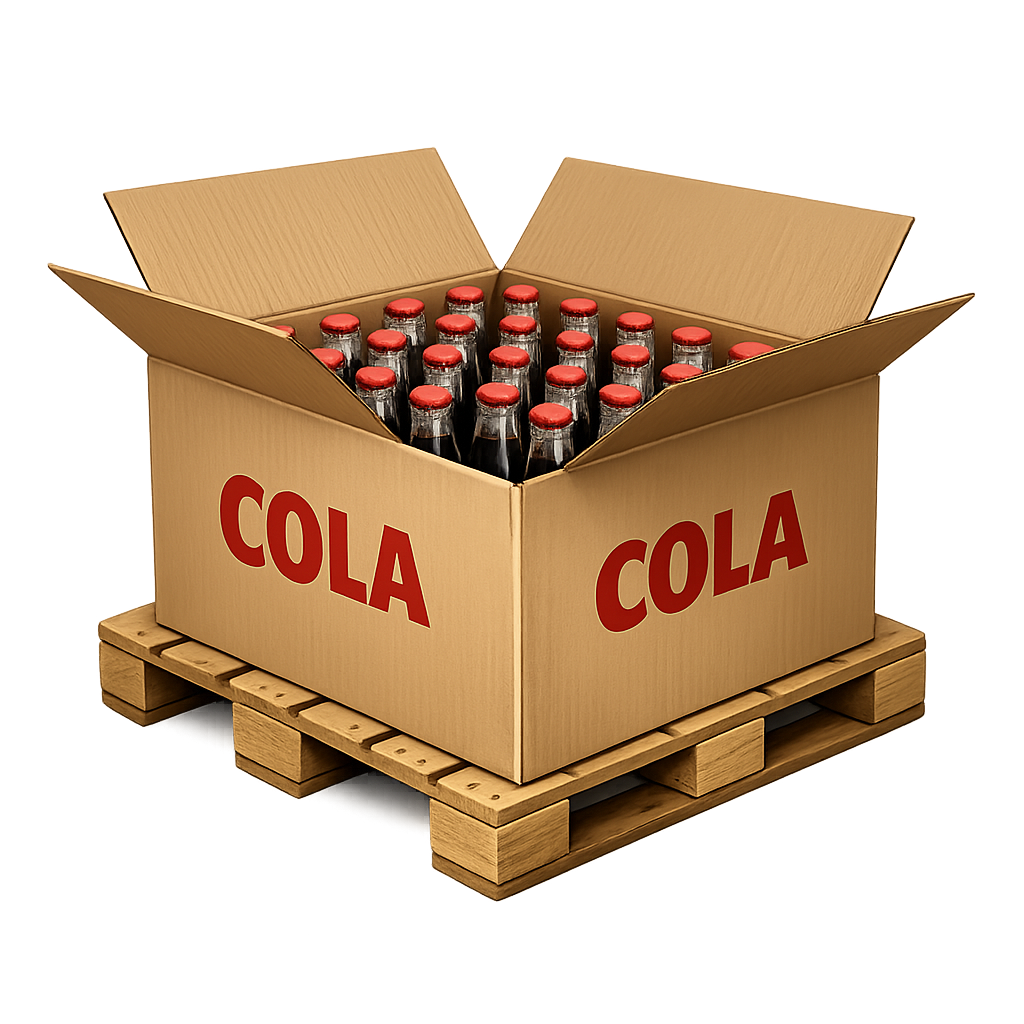
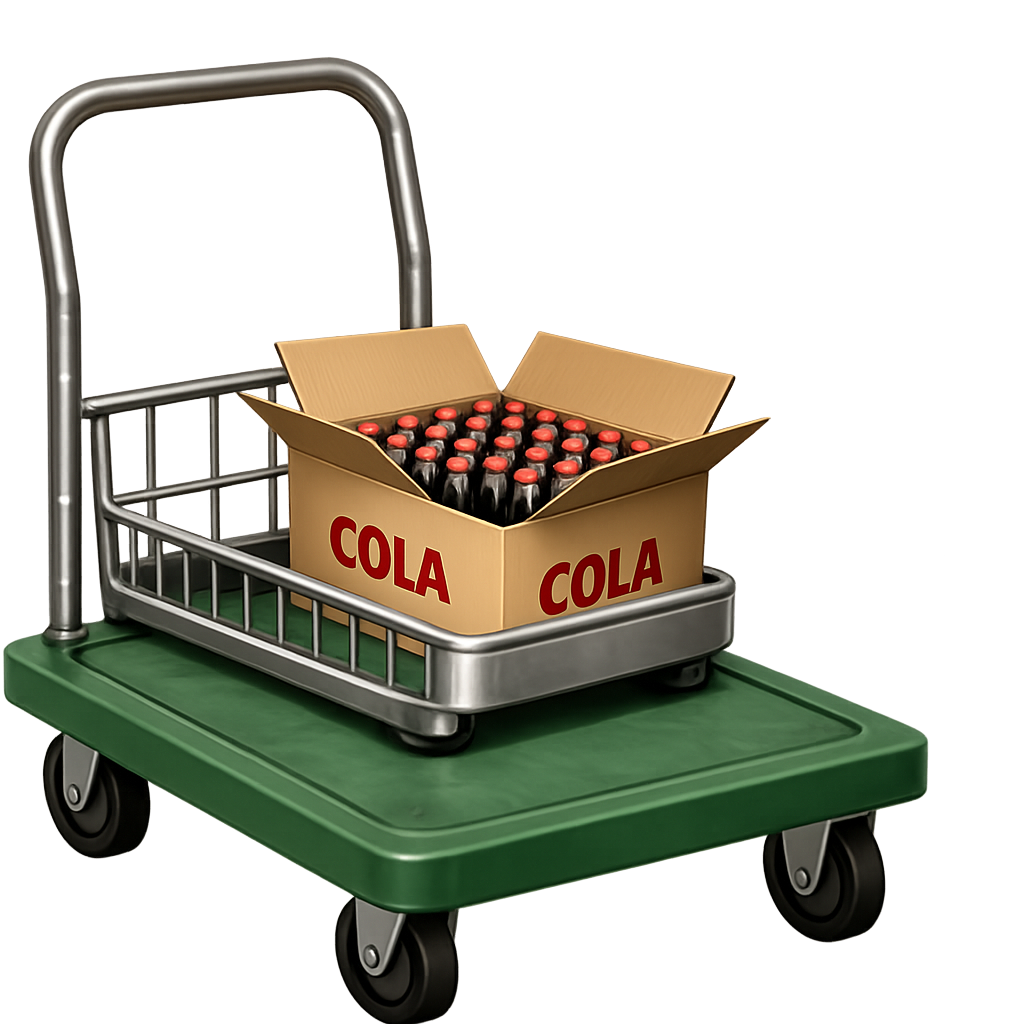
Fix P0 open cart composite on main

diff --git a/src/game/presentation/actors/installRestockCartCombo.ts b/src/game/presentation/actors/installRestockCartCombo.ts
@@ -1,0 +1,59 @@
+import Phaser from "phaser";
+import type { RestockSceneSnapshot } from "../../application/RestockSceneController";
+import { prepareTrimmedTexture } from "../assets/TrimmedTextureFactory";
+import {
+  RestockActorView,
+  type RestockActorViewConfig
+} from "./RestockActorView";
+
+interface RestockActorInternals {
+  readonly scene: Phaser.Scene;
+  readonly config: RestockActorViewConfig;
+  readonly cart: Phaser.GameObjects.Image;
+  readonly cartFront: Phaser.GameObjects.Image;
+  readonly cartShadow: Phaser.GameObjects.Ellipse;
+  readonly caseBox: Phaser.GameObjects.Image;
+}
+
+const originalSync = RestockActorView.prototype.sync;
+
+RestockActorView.prototype.sync = function syncWithBakedOpenCart(
+  this: RestockActorView,
+  snapshot: RestockSceneSnapshot
+): void {
+  originalSync.call(this, snapshot);
+
+  const view = this as unknown as RestockActorInternals;
+  const isColaDelivery = view.config.caseAssetKey === "prop-cola-case-closed";
+  const needsOpenCart = snapshot.step === "restock" || (
+    snapshot.step === "open" && snapshot.boxOpened
+  );
+  if (!isColaDelivery || !needsOpenCart) return;
+
+  const textureKey = prepareTrimmedTexture(
+    view.scene,
+    view.config.caseOpenAssetKey ?? "prop-cola-case-open",
+    "cut-restock-cart-cola-open-combo-v3",
+    10,
+    true
+  );
+  const x = view.config.cartDestination.x - 265;
+  const y = view.config.cartDestination.y + 26;
+
+  view.cart
+    .setTexture(textureKey)
+    .setOrigin(0.5, 0.96)
+    .setDisplaySize(330, 378)
+    .setPosition(x, y)
+    .setAlpha(1)
+    .setVisible(true);
+  view.cartFront.setVisible(false);
+  view.caseBox.setVisible(false).setAlpha(1);
+  view.cartShadow
+    .setPosition(x, y + 5)
+    .setSize(205, 38)
+    .setVisible(true);
+
+  document.body.dataset.restockActorComposition = "baked-cart-open-case";
+  document.body.dataset.restockLoadVisual = "single-composite-texture";
+};

diff --git a/src/main.ts b/src/main.ts
@@ -1,5 +1,6 @@
 import "./styles.css";
 import "./visual-comfort.css";
+import "./game/presentation/actors/installRestockCartCombo";
 import { bootstrapGame } from "./game/bootstrap";
 
 void bootstrapGame().catch((error: unknown) => {
